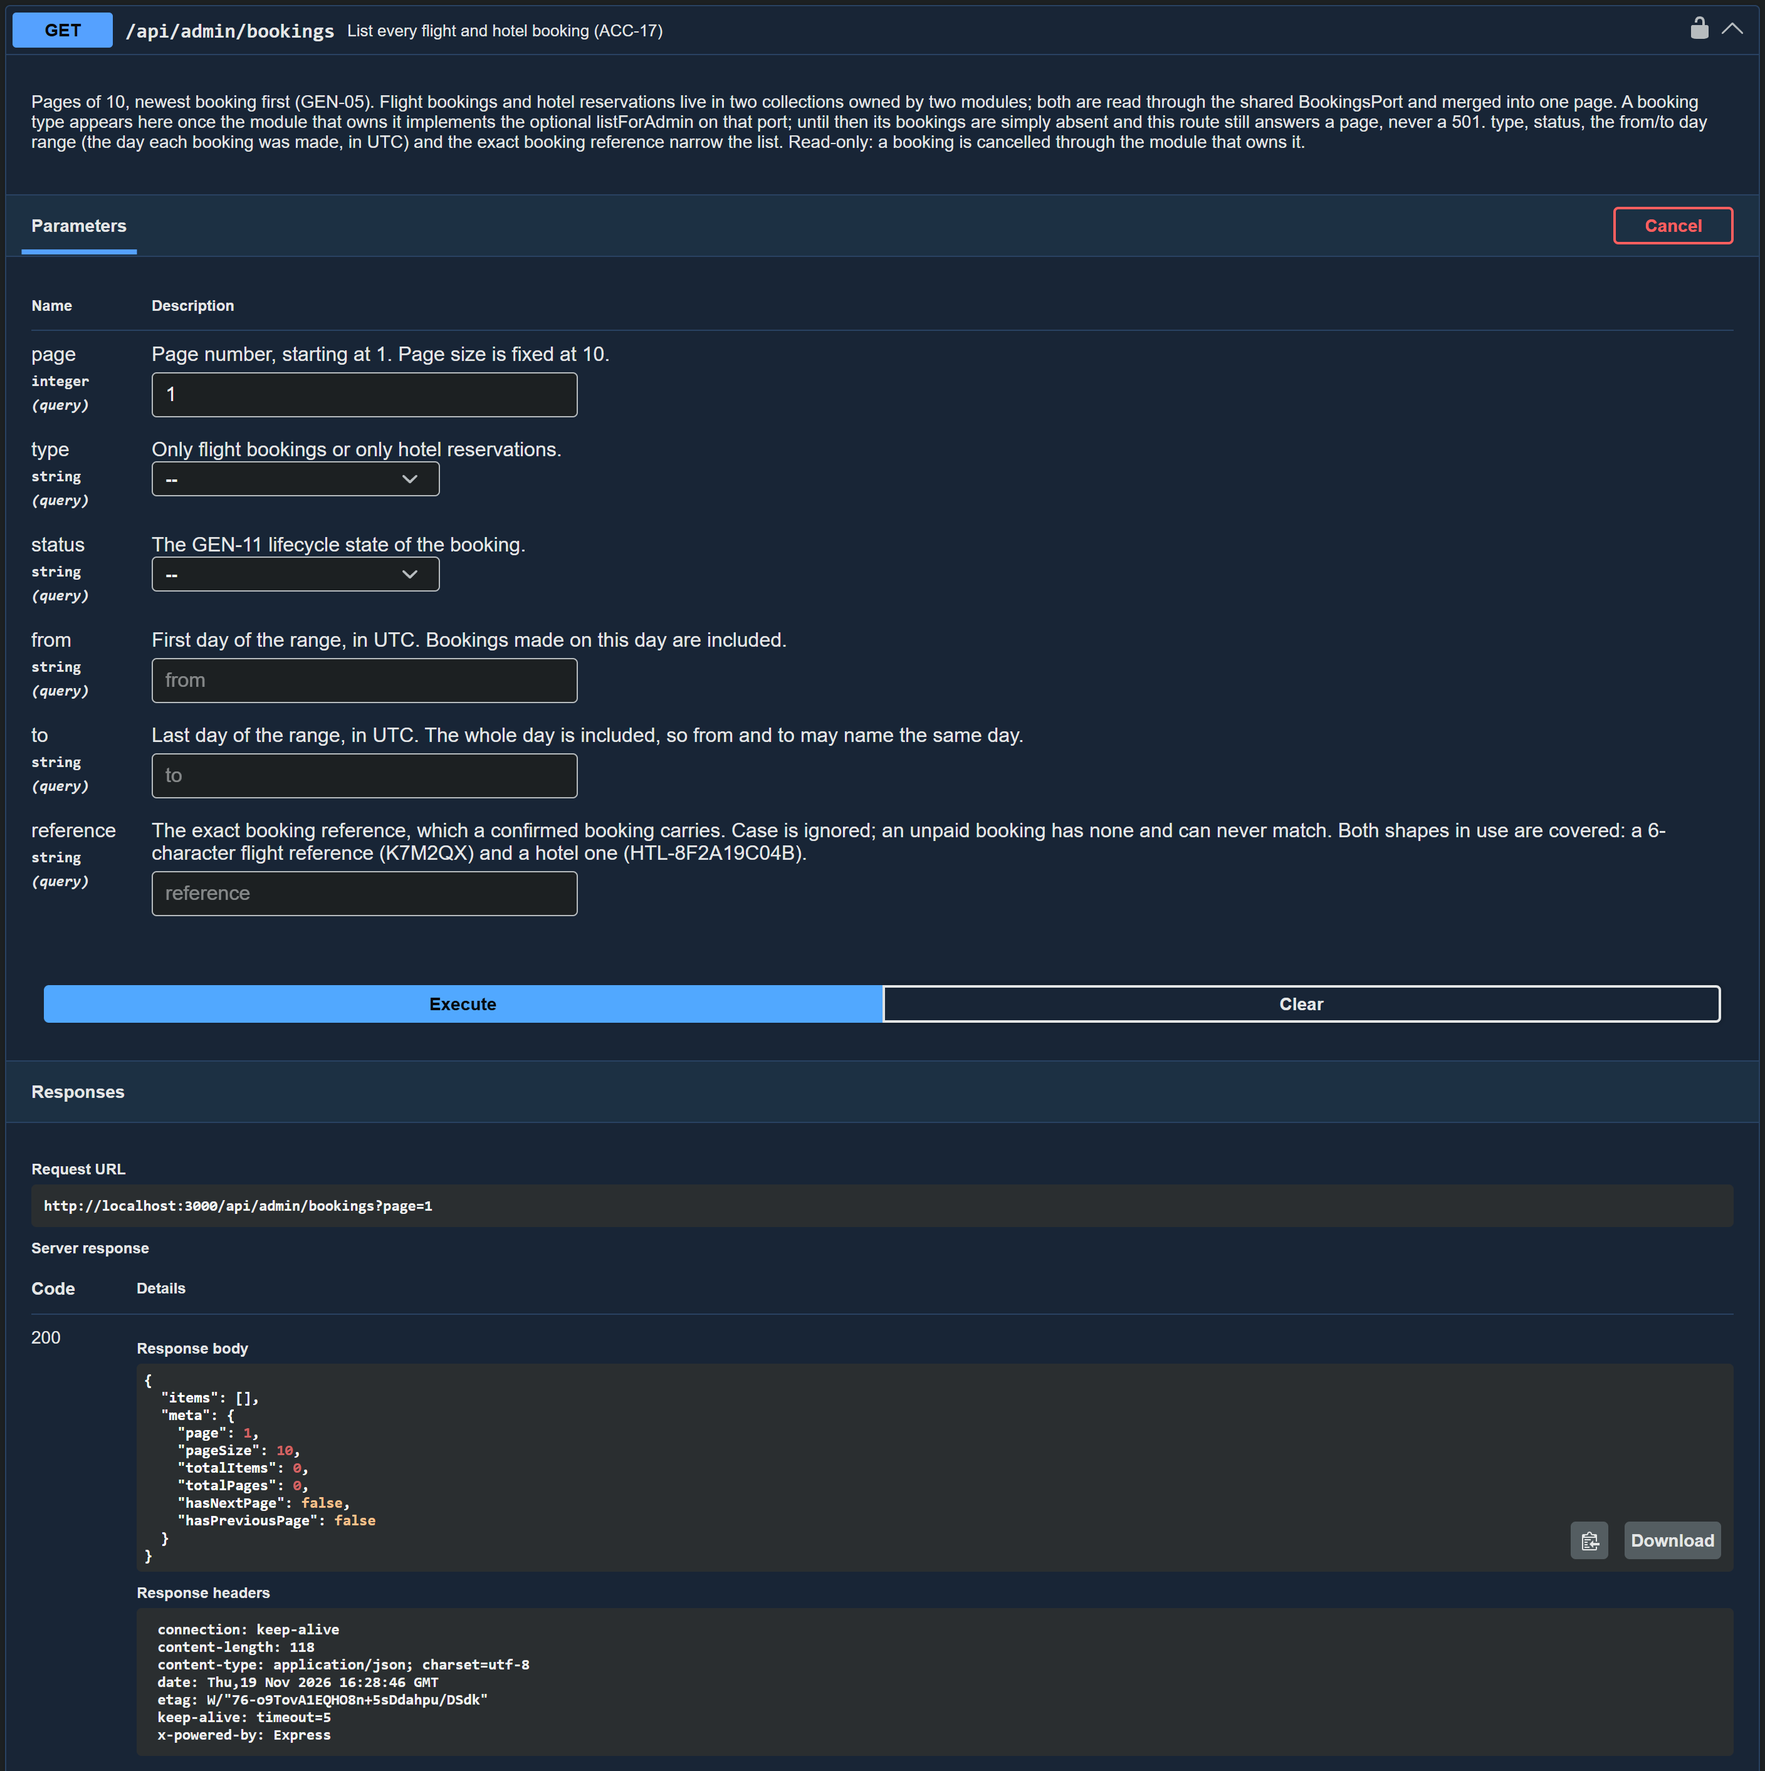
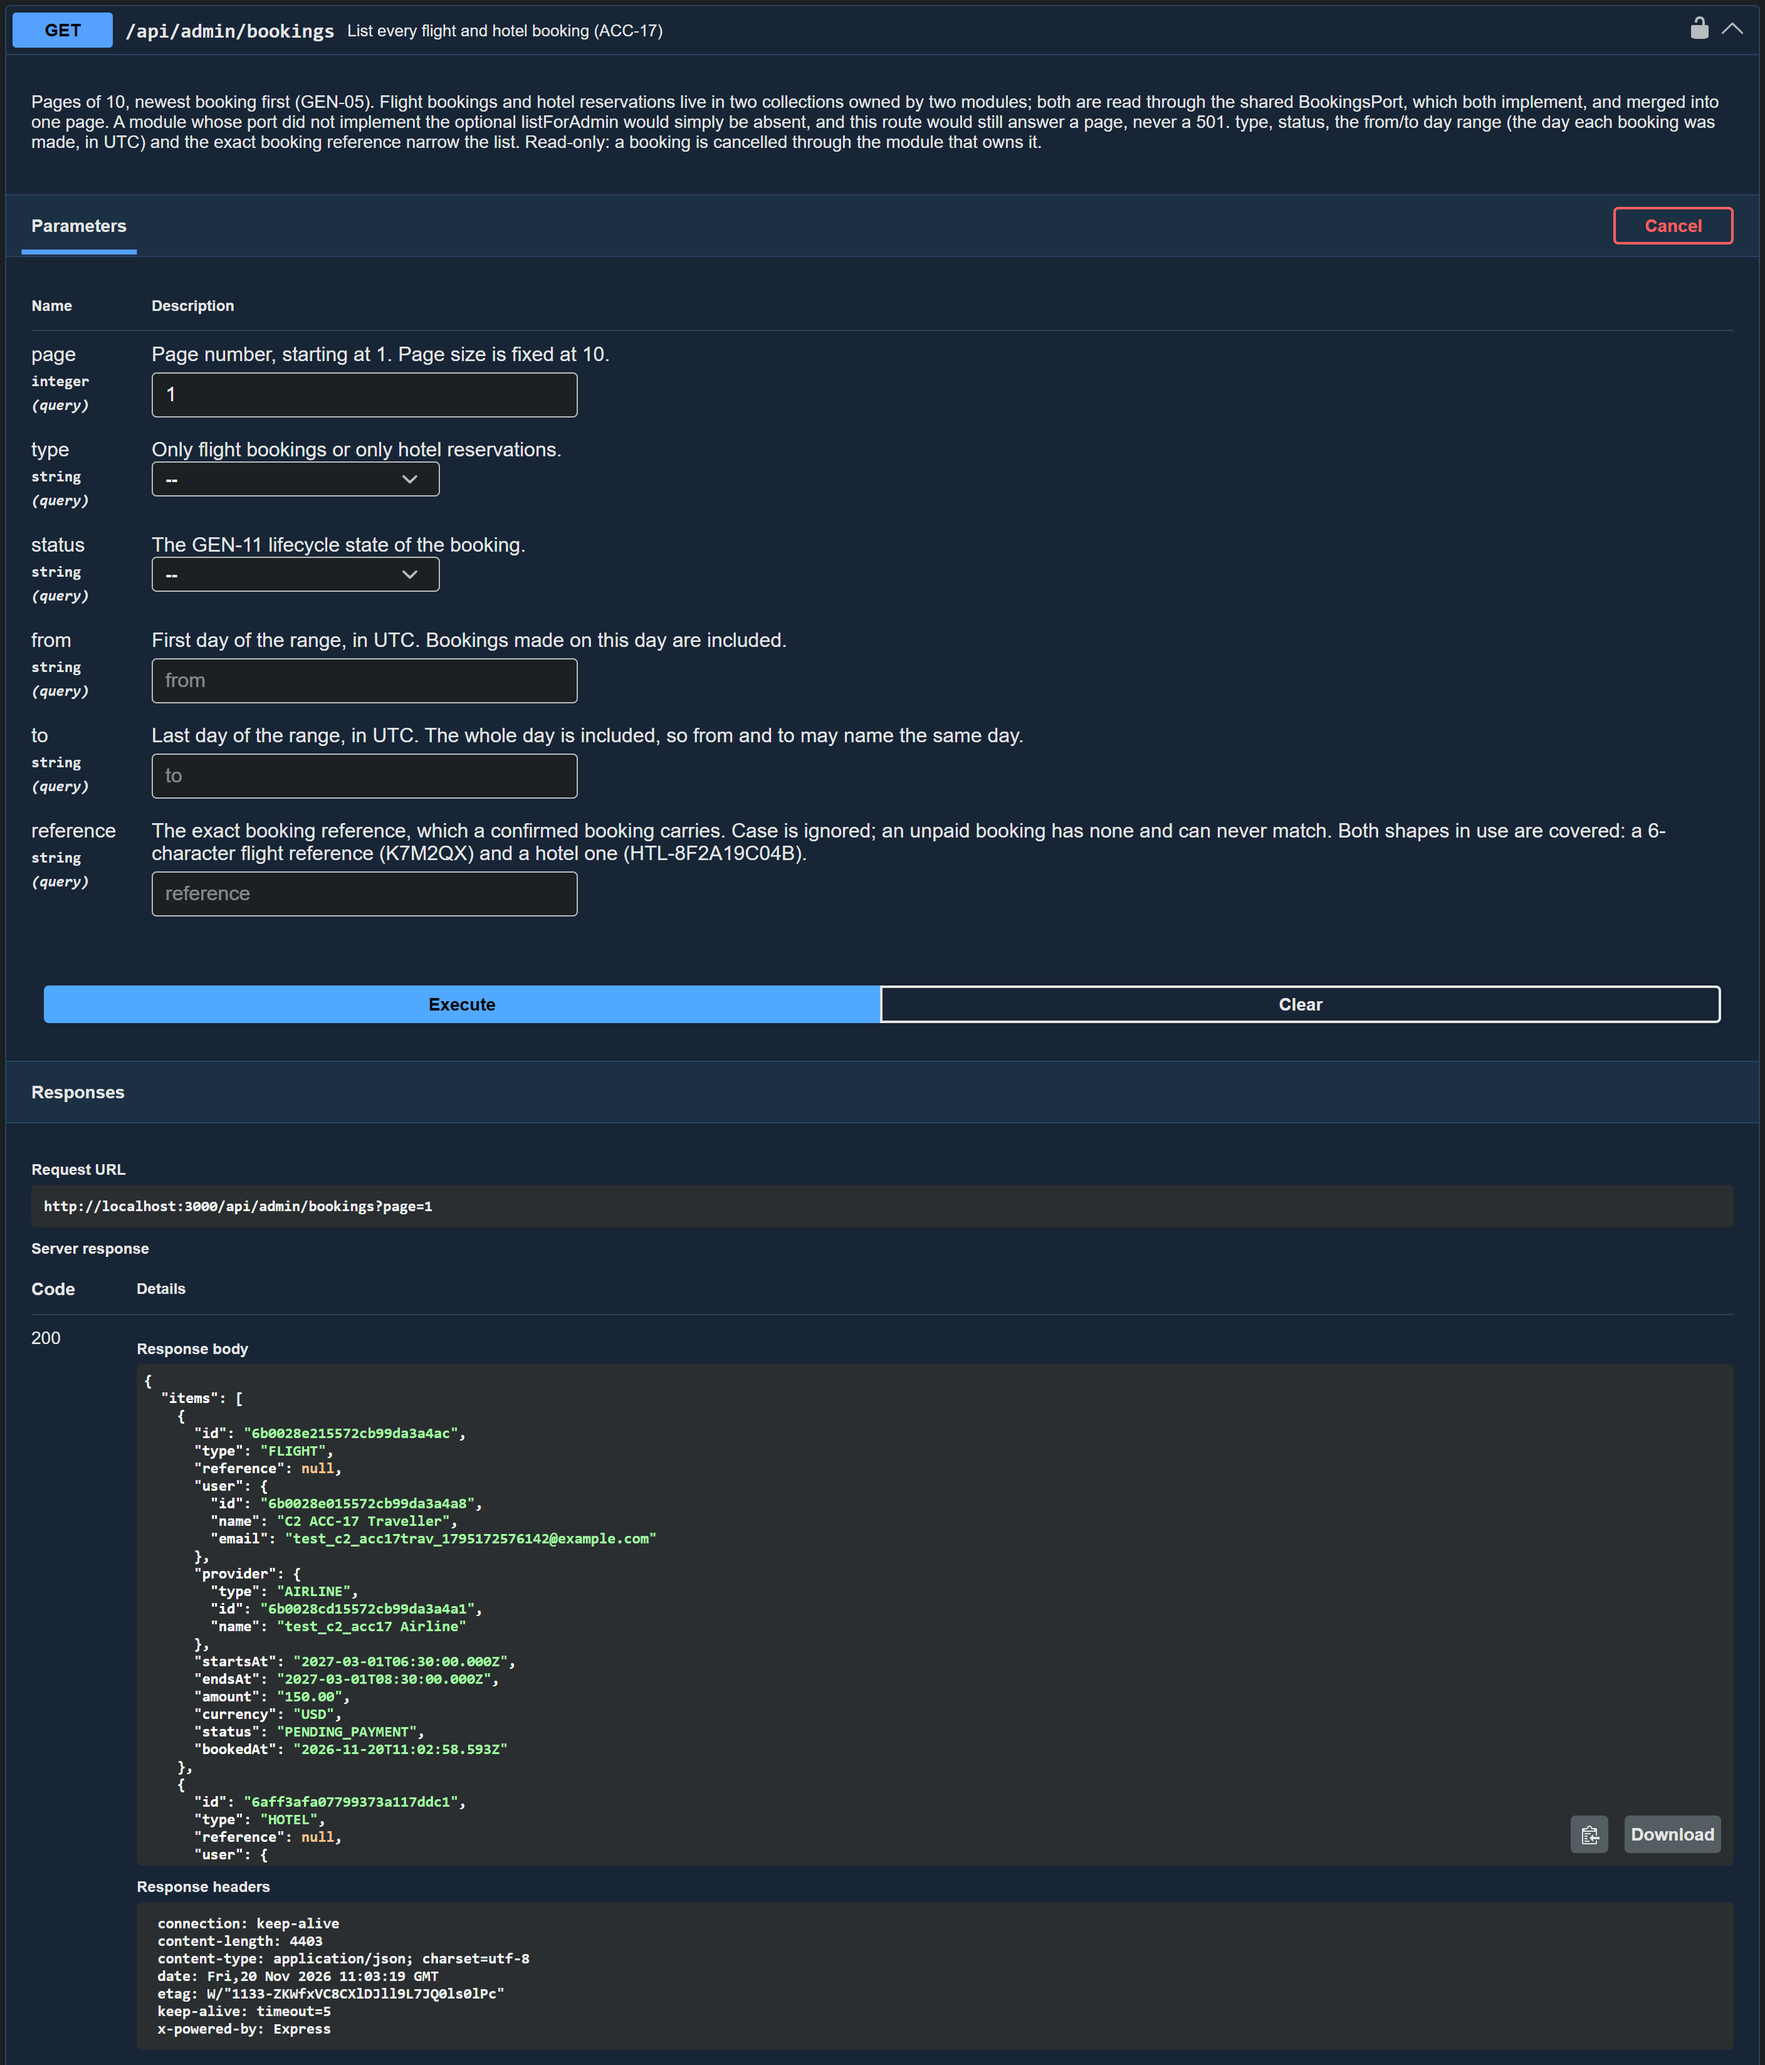
docs(evidence): re-take shot 23 with real bookings in the ACC-17 list
Both booking modules implement listForAdmin now, so the admin list is no
longer empty. The new shot shows a flight booking on its hold first, then
hotel reservations; the captions in README and CAPTURE-RUN say so, and the
AI_PROMPTS entry is appended at the end.

diff --git a/docs/api/evidence/README.md b/docs/api/evidence/README.md
@@ -50,7 +50,7 @@ ACC-04) to prove that a deactivated account's cookie stops working.
 | PAY-01 | `POST /api/payments/webhook` | Stripe's `payment_intent.succeeded`, forwarded by the Stripe CLI, answered `200` | `24_PAY-01_webhook-via-stripe-cli.txt` |
 | PAY-01 | `GET /api/payments/{id}` | `200`, `SUCCEEDED` — the webhook confirmed it seven seconds after it was opened | `21_PAY-01_get-payment_200.png` |
 | PAY-03 | `GET /api/refunds/{id}` | `200`, a real Stripe refund of `240.00` USD, `REFUNDED`, at the 100% tier | `22_PAY-03_get-refund_200.png` |
-| ACC-17 | `GET /api/admin/bookings` | `200`, an empty page — no booking module implements `listForAdmin` yet | `23_ACC-17_admin-bookings_200.png` |
+| ACC-17 | `GET /api/admin/bookings` | `200`, flight bookings and hotel reservations in one page, newest first | `23_ACC-17_admin-bookings_200.png` |
 
 ## ACC-07a — admin resets an account to a temporary password
 
@@ -191,12 +191,15 @@ that applied and the terms it came from are stored on the refund.
 
 ## ACC-17 — the admin's list of every booking
 
-The request has no filter at all, and the page is empty on purpose. The bookings
-live in the flights and hotels modules, and each appears here once that module
-implements the optional `listForAdmin` on `BookingsPort`; neither has yet. Until
-then the route still answers a page, never a 501, so an admin list does not break
-while a module is still being built. This shows the route, the admin guard and the
-paging working; it will fill up as those two modules land.
+The request has no filter at all. The bookings live in the flights and hotels
+modules, which both implement the optional `listForAdmin` on `BookingsPort`, and
+the route merges them into one page, newest first. The first row is a `FLIGHT`
+booking still on its 10-minute hold, so it has no reference yet, with the user,
+the airline's name, the travel times in UTC and the amount as a string. The hotel
+reservations follow it; the response box scrolls to the rest of the page and its
+`meta`. The flight was made for this shot through the API (a test airline, its
+moderator, a flight and a seat hold) because the shared cluster held no flight
+bookings at the time, and every row made for it was deleted afterwards.
 
 ![The admin booking list](23_ACC-17_admin-bookings_200.png)
 

diff --git a/docs/api/evidence/CAPTURE-RUN.md b/docs/api/evidence/CAPTURE-RUN.md
@@ -161,11 +161,14 @@ Then, as the admin:
 
 | # | Endpoint | Req | Send | Expect |
 | --- | --- | --- | --- | --- |
-| 23 | `GET /api/admin/bookings` | ACC-17 | **clear** the `from`, `to` and `reference` fields | `200`, an empty page while no module implements `listForAdmin` |
+| 23 | `GET /api/admin/bookings` | ACC-17 | **clear** the `from`, `to` and `reference` fields | `200`, flight bookings and hotel reservations in one page, newest first |
 
 Swagger UI pre-fills those optional fields with the DTO's examples, including a
 made-up reference, `K7M2QX`. Left as they are, the request filters on a booking that
-does not exist, and the empty page then proves nothing about the route.
+does not exist, and the empty page then proves nothing about the route. The page
+shows a flight row only if the database holds a flight booking; on a cluster with
+none, hold a seat on a test flight first (FLT-22) and take the shot inside its
+10 minutes.
 
 ## 6. Worth adding if the TA wants refusals
 
